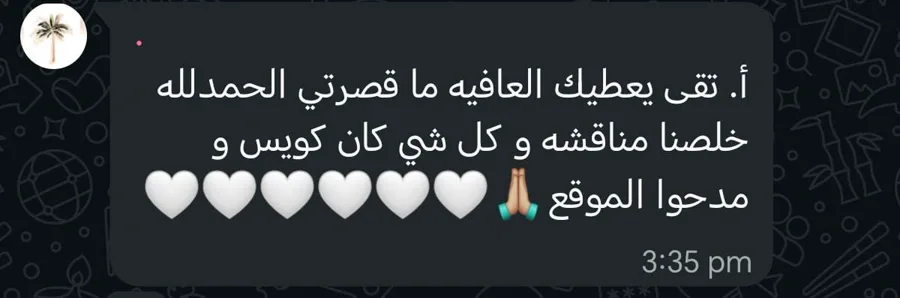
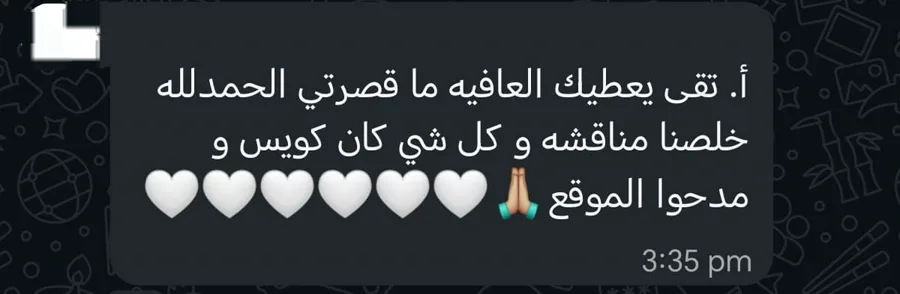
Replace two client message screenshots with the owner's edited versions

diff --git a/src/data.js b/src/data.js
@@ -656,9 +656,9 @@ export const REVIEWS = [];
 // Order = display order (strongest first). w/h keep the layout stable while images load.
 export const REVIEW_SHOTS = [
   { src: "reviews/r03.webp", w: 900, h: 184 },
-  { src: "reviews/r04.webp", w: 900, h: 298 },
+  { src: "reviews/r04.webp", w: 900, h: 294 },
   { src: "reviews/r22.webp", w: 900, h: 376 },
-  { src: "reviews/r13.webp", w: 900, h: 440 },
+  { src: "reviews/r13.webp", w: 900, h: 436 },
   { src: "reviews/r26.webp", w: 900, h: 352 },
   { src: "reviews/r27.webp", w: 900, h: 190 },
   { src: "reviews/r34.webp", w: 900, h: 394 },
